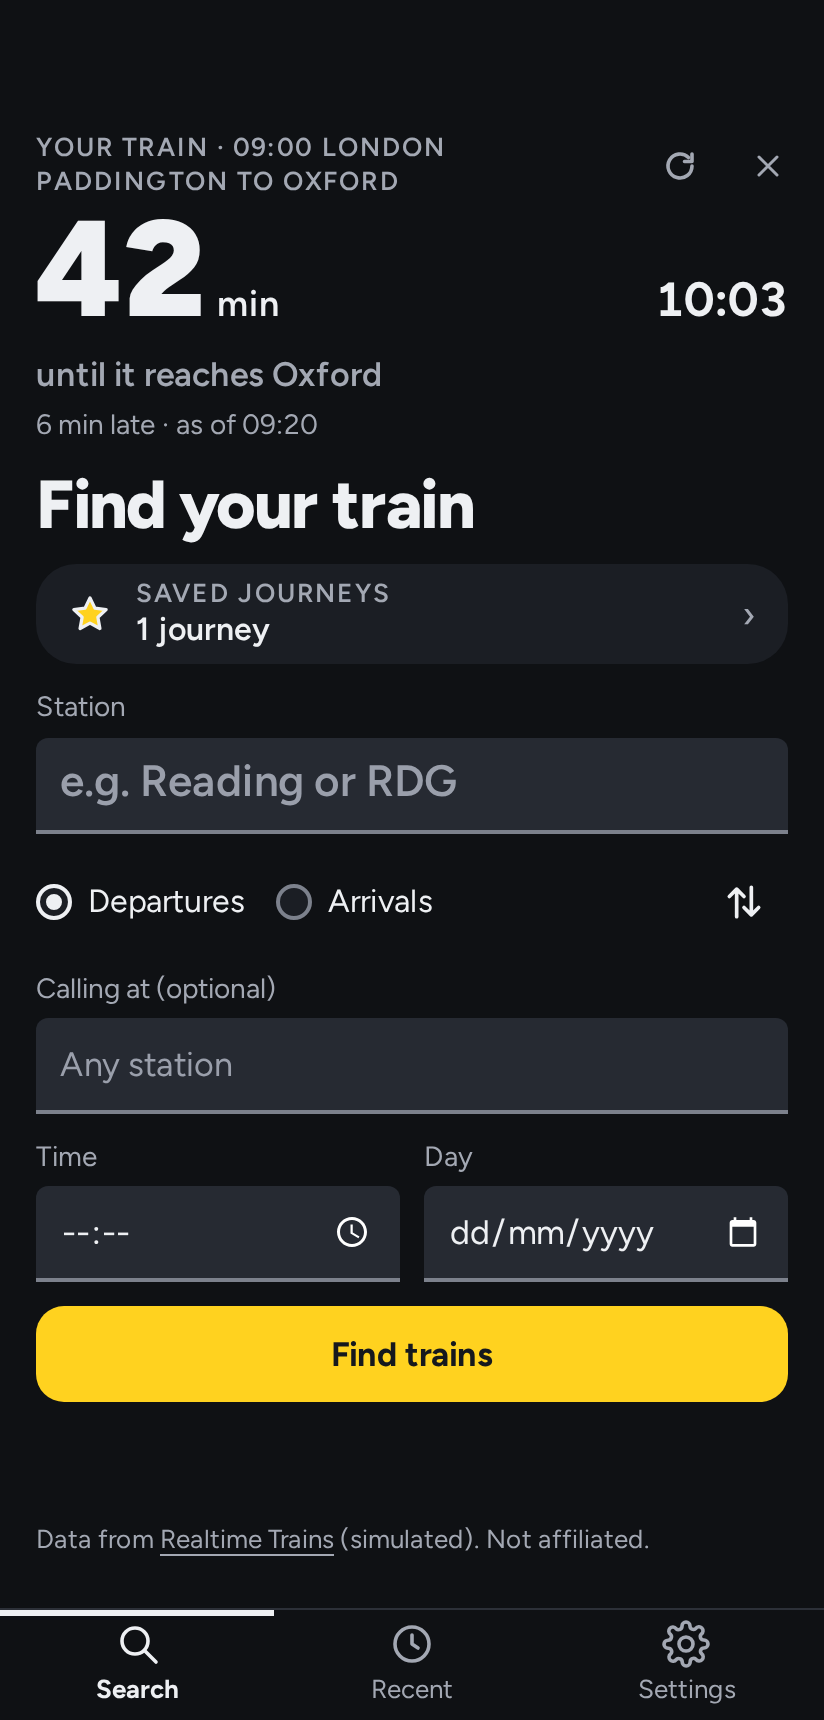
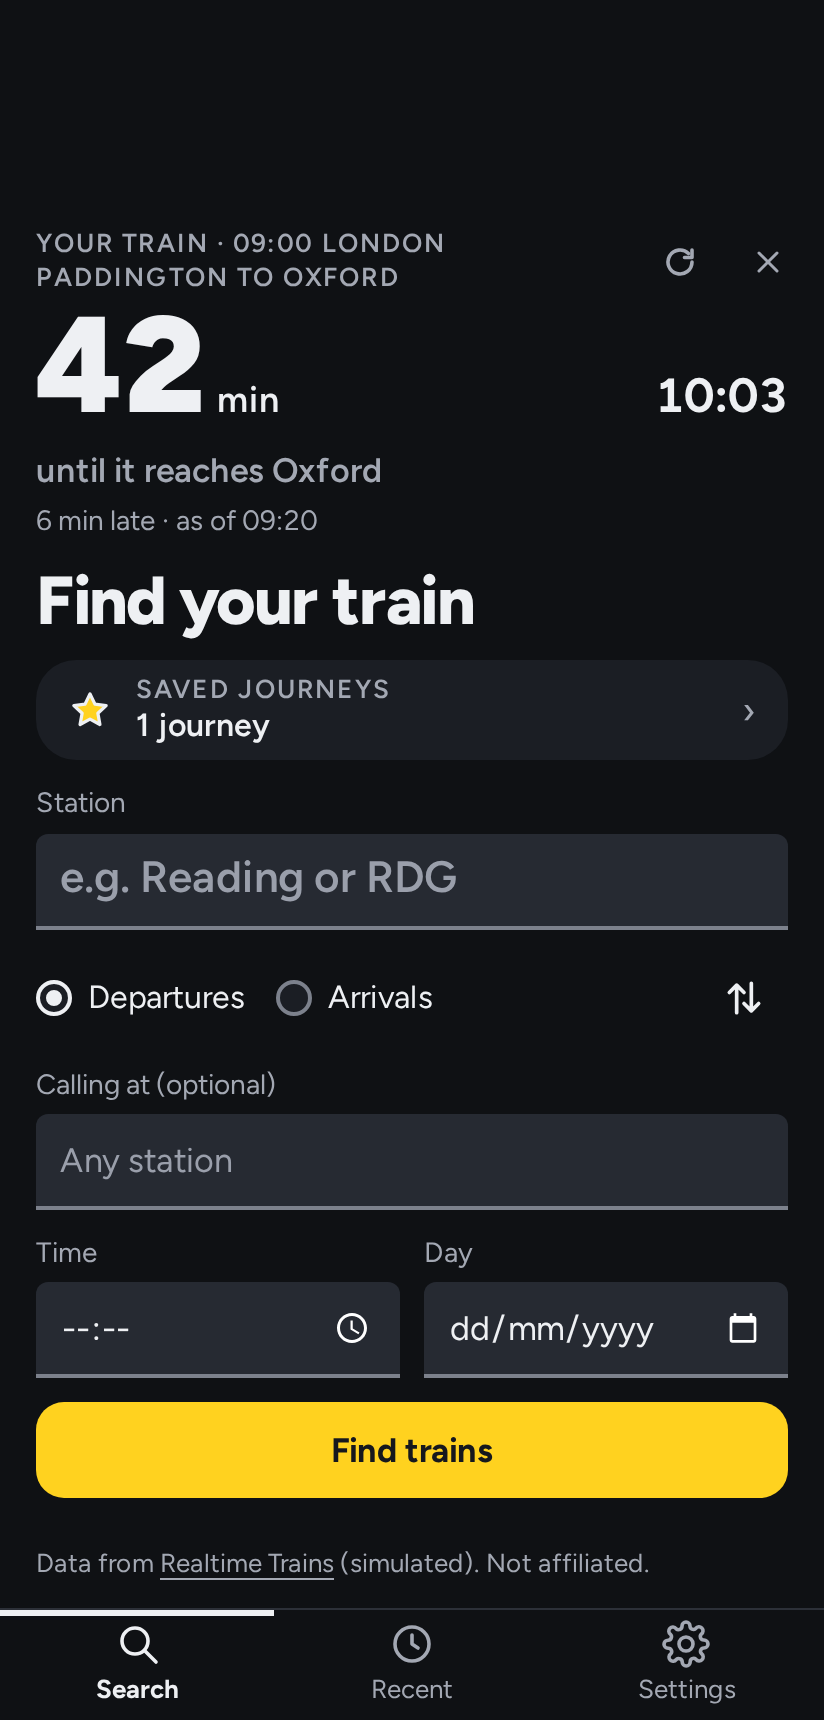
The search page always fits; nothing stretches past a page's end
With a train tracked the search page ran a little past the screen and wiggled: your train now shrinks to two lines when room is short, the clock to one, and the page sits low only from 800 px. Overscroll is off, so the tabs no longer stretch with the page.

diff --git a/public/css/block/tabs.css b/public/css/block/tabs.css
@@ -58,15 +58,16 @@
   :root[data-tabs="bottom"] .trainbar__jump { order: 2; }
 }
 
-/* The search page on a screen with room to spare (760 px: a 360 × 700 app screen, which the page must fit, has none):
+/* The search page on a screen with room to spare (800 px: smaller, with your train above it, it ran past the screen; fit.spec.ts):
    the room it doesn't need goes above it all (owner, 2026-11-08: a gap between the heading and the form looked odd), so
    the heading, the train to carry on with, the saved journeys and the form sit together low on the screen. Smaller,
    the page stands at the top as before, where a fold opening downwards moves nothing above it (stable.spec.ts). */
-@media (min-height: 760px) {
+@media (min-height: 800px) {
   :root[data-tabs="bottom"] #app:has(.home) {
     display: flex; flex-direction: column; min-height: calc(100svh - var(--tabs-height) - env(safe-area-inset-bottom, 0px));
   }
-  :root[data-tabs="bottom"] main:has(> .home) { flex: 1; display: flex; flex-direction: column; }
+  :root[data-tabs="bottom"] main:has(> .home) { flex: 1; display: flex; flex-direction: column; padding-bottom: var(--s-3); }
+  :root[data-tabs="bottom"] #app:has(.home) .footer { padding-block: var(--s-3); } /* room for the page itself */
   :root[data-tabs="bottom"] .home { flex: 1; }
   :root[data-tabs="bottom"] .home > :first-child { margin-top: auto; }
   /* The time and day show already, empty for now, rather than fold: opening them would push everything above it up,
@@ -76,7 +77,14 @@
   :root[data-tabs="bottom"] .home .search__go { flex-direction: column; align-items: stretch; }
   /* That room holds something to read, the top of the screen being the hardest to tap (owner, 2026-11-08): your train
      as the train page last counted it, or the time and the day. It sits on the room's foot, just above the heading. */
-  :root[data-tabs="bottom"] .home > .home__top { display: flex; flex-direction: column; justify-content: flex-end; flex: 1 1 auto; }
+  /* It takes only the room that's spare, so the page always fits one screen (fit.spec.ts; owner, 2026-11-09: it ran a
+     little over while a train was tracked, and wiggled). What's in it fits itself to that room (below): your train
+     always keeps room for its compact form, and the clock, only filling space, goes when there's none. */
+  :root[data-tabs="bottom"] .home > .home__top {
+    display: flex; flex-direction: column; justify-content: flex-end; flex: 1 1 0; min-height: 0;
+    container: hometop / size; overflow-x: visible; overflow-y: clip; /* only top to bottom: the cross reaches the edge */
+  }
+  :root[data-tabs="bottom"] .home > .home__top:has(.home__glance) { min-height: calc(2 * var(--tap) + 1rem); } /* its compact form */
   /* Your train above says what the Carry on line would: that line hides here, and stays where this block doesn't show */
   :root[data-tabs="bottom"] .home:has(.home__glance) .carry:not(.carry--saved) { display: none; }
 }
@@ -101,3 +109,22 @@
 .home__clock { display: grid; gap: var(--s-1); margin: 0; font-family: var(--sign-font); }
 .home__time { font-weight: var(--hero-weight); font-size: min(6.5rem, 28vw); line-height: .9; letter-spacing: -.04em; }
 .home__date { font-weight: 600; font-size: var(--t-md); color: var(--muted); }
+
+/* Less room than the full forms need: your train on two lines (its label with the buttons, then "42 min until it
+   reaches Oxford"), the clock on one, and with too little for that the clock not at all */
+@container hometop (max-height: 11rem) { /* the full form is about 10 rem */
+  .home__glance { gap: 0; }
+  .home__glance .live__hero { flex-wrap: nowrap; align-items: baseline; gap: .35rem; }
+  .home__glance .live__hero-num { font-size: var(--t-lg); line-height: 1.2; letter-spacing: 0; }
+  .home__glance .live__hero-unit { font-size: var(--t-lg); }
+  .home__glance .live__hero-what { flex-basis: auto; min-width: 0; margin: 0; overflow-wrap: anywhere; }
+  .home__glance .live__hero-at, .home__glance-said, .home__glance-title { display: none; } /* the title: a tap away */
+  .home__glance-go { display: flex; align-items: center; min-height: var(--tap); }
+}
+@container hometop (max-height: 8.5rem) {
+  .home__clock { display: flex; align-items: baseline; gap: var(--s-3); }
+  .home__time { font-size: var(--t-lg); line-height: 1.2; letter-spacing: 0; }
+}
+@container hometop (max-height: 2.75rem) {
+  .home__clock { display: none; }
+}

diff --git a/test/ui/fit.spec.ts b/test/ui/fit.spec.ts
@@ -1,7 +1,7 @@
 // The search page fits one phone screen with no scrolling: 360 × 700 is a 360 × 800 phone less its status and
 // navigation bars, the smallest common app screen. First visit, and coming back with saved things.
 import { KEYS } from "../../src/ui/store/keys";
-import { expect, open, openTrain, test } from "./support";
+import { expect, ONCE, open, openTrain, test } from "./support";
 
 const fits = (page: import("@playwright/test").Page) =>
   page.evaluate(() => document.documentElement.scrollHeight - innerHeight);
@@ -48,3 +48,22 @@ test("with the tabs at the top, Settings is a cog, still named Settings", async 
   await expect(cog).toHaveAttribute("aria-current", "page");
   void errors;
 });
+
+// Tall phones with the tabs at the bottom, where the page sits low with your train above it (owner, 2026-11-09: it ran
+// a little past the screen while a train was tracked, so it wiggled). Each size with and without a status bar (a
+// browser has none: --inset-top stands in, as in flows.spec.ts). Your train is always there, smaller where it must be.
+for (const [w, h] of [[412, 915], [412, 880], [412, 840], [360, 800]]) { // from 800 px it sits low (block/tabs.css)
+  for (const inset of [0, 40]) {
+    test(`a tall screen, ${w} × ${h}${inset ? ", with a status bar" : ""}: the search page fits, train and all`, ONCE, async ({ page, errors }) => {
+      await open(page, "/board?station=PAD&to=OXF&time=09:00");
+      await page.locator("[data-save-journey]").click();
+      await openTrain(page);
+      await page.setViewportSize({ width: w, height: h });
+      await open(page, "/");
+      await page.evaluate((v) => document.documentElement.style.setProperty("--inset-top", `${v}px`), inset);
+      expect(await fits(page)).toBeLessThanOrEqual(0);
+      await expect(page.locator(".home__glance .live__hero-num")).toBeVisible();
+      void errors;
+    });
+  }
+}

diff --git a/test/ui/tabs.spec.ts b/test/ui/tabs.spec.ts
@@ -30,6 +30,16 @@ test("chosen in Settings, the tabs go back to the top at once, and stay there", 
   void errors;
 });
 
+// Owner, 2026-11-09: scrolling past a page's end stretched the bottom tabs with it (Android stretches the whole view,
+// fixed bars and all). The page doesn't overscroll, so nothing stretches.
+test("scrolling past a page's end stretches nothing, the tabs included", async ({ page, errors }) => {
+  await open(page, "/settings");
+  const behaviour = await page.evaluate(() => [getComputedStyle(document.documentElement).overscrollBehaviorY,
+    getComputedStyle(document.body).overscrollBehaviorY]);
+  expect(behaviour).toEqual(["none", "none"]);
+  void errors;
+});
+
 test.describe("on a short screen", () => {
   test.use({ viewport: { width: 640, height: 360 } });
 

diff --git a/src/ui/views/home.ts b/src/ui/views/home.ts
@@ -40,7 +40,7 @@ function glanceView(t: RecentTrain, g: Glance, now: Ms): Html {
   return html`
   <section class="home__glance" aria-labelledby="glance-h">
     <div class="home__glance-head">
-      <h2 id="glance-h" class="home__glance-label">Your train · ${t.title}</h2>
+      <h2 id="glance-h" class="home__glance-label">Your train<span class="home__glance-title"> · ${t.title}</span></h2>
       <button type="button" class="home__refresh" data-refresh-train="${t.href}" aria-label="Refresh your train" title="Refresh">${REFRESH_ICON}</button>
       <button type="button" class="home__dismiss" data-dismiss-train="${t.href}" aria-label="Stop showing this train here" title="Not on this train">${CROSS}</button>
     </div>

diff --git a/public/css/base/elements.css b/public/css/base/elements.css
@@ -39,6 +39,9 @@
 
 *, *::before, *::after { box-sizing: border-box; }
 [hidden] { display: none !important; }
+/* No stretch past a page's end: Android stretches the whole view, the fixed tabs and bars with it, which looks broken
+   (owner, 2026-11-09). A page still stops at its ends. */
+html, body { overscroll-behavior-y: none; }
 html { -webkit-text-size-adjust: 100%; }
 body {
   margin: 0;

diff --git a/AGENTS.md b/AGENTS.md
@@ -145,12 +145,14 @@ one line of facts; class and units are in the Train view. Explanations (an outli
   time or day" (otherwise, now) beside "Find trains". Recent stations are offered in an
   empty station box as soon as it's tapped; each station box is an ARIA combobox with a status line saying how many
   match. The page fits a 360 × 700 app screen with no scrolling, first visit or
-  coming back (`test/ui/fit.spec.ts`). With the tabs at the bottom of a screen at least 760 px tall
+  coming back (`test/ui/fit.spec.ts`). With the tabs at the bottom of a screen at least 800 px tall
   (`block/tabs.css`), it sits low, within a thumb's reach: its spare room goes above the heading, and holds your train
   (`pages/home.ts`, `homeTop`): the big number as the train page last counted it (`glanceOf`, saved after each answer,
   so no call), with a small refresh (one call, never within `GLANCE_REFRESH_MIN` = 60 s of the last answer, and the
   train page's `manualMinAge` too; owner, 2026-11-08) and a cross that stops showing it there (it stays in Recent;
-  opening it brings it back). With no train, or its time 2 minutes gone, the time and the day. There the Time and Day
+  opening it brings it back). With no train, or its time 2 minutes gone, the time and the day. That room is only what's spare, so the page fits one
+  screen (`fit.spec.ts`, tall sizes with a status bar): with less, your train shrinks to two lines and the clock to one, then
+  none. There the Time and Day
   are always out, not folded: opening a fold would push everything above it up. Nothing opening moves what's above
   it, anywhere (`test/ui/stable.spec.ts`).
 - **Train page:** every location RTT returns. Calls are full rows; passing points fold into one "N passing points" row
@@ -274,7 +276,8 @@ one line of facts; class and units are in the Train view. Explanations (an outli
   to the page and only the strip under the status bar stays. Only on a screen at least 600 px tall: a short one
   (landscape) keeps them at the top. Settings > Appearance > Tabs moves them to the top (`liveline.tabs`, on `<html>`
   as `data-tabs`), where they're words beside the name, with a cog for Settings (named for screen readers).
-  `test/ui/tabs.spec.ts`; the contact sheet draws the bar at the page's end (`snap`).
+  `test/ui/tabs.spec.ts`; the contact sheet draws the bar at the page's end (`snap`). No page overscrolls
+  (`overscroll-behavior: none`): Android's stretch takes the whole view, fixed bars and all (owner, 2026-11-09).
 - **Android shell** (`platform/index.ts`, started in `main.ts`): Back goes to the previous page, and from the first
   page leaves the app (minimised, as other apps do), which also lets predictive back work. Both system bars
   follow the phone's theme, including a day/night switch while the app is open: under the status bar is a fixed strip
